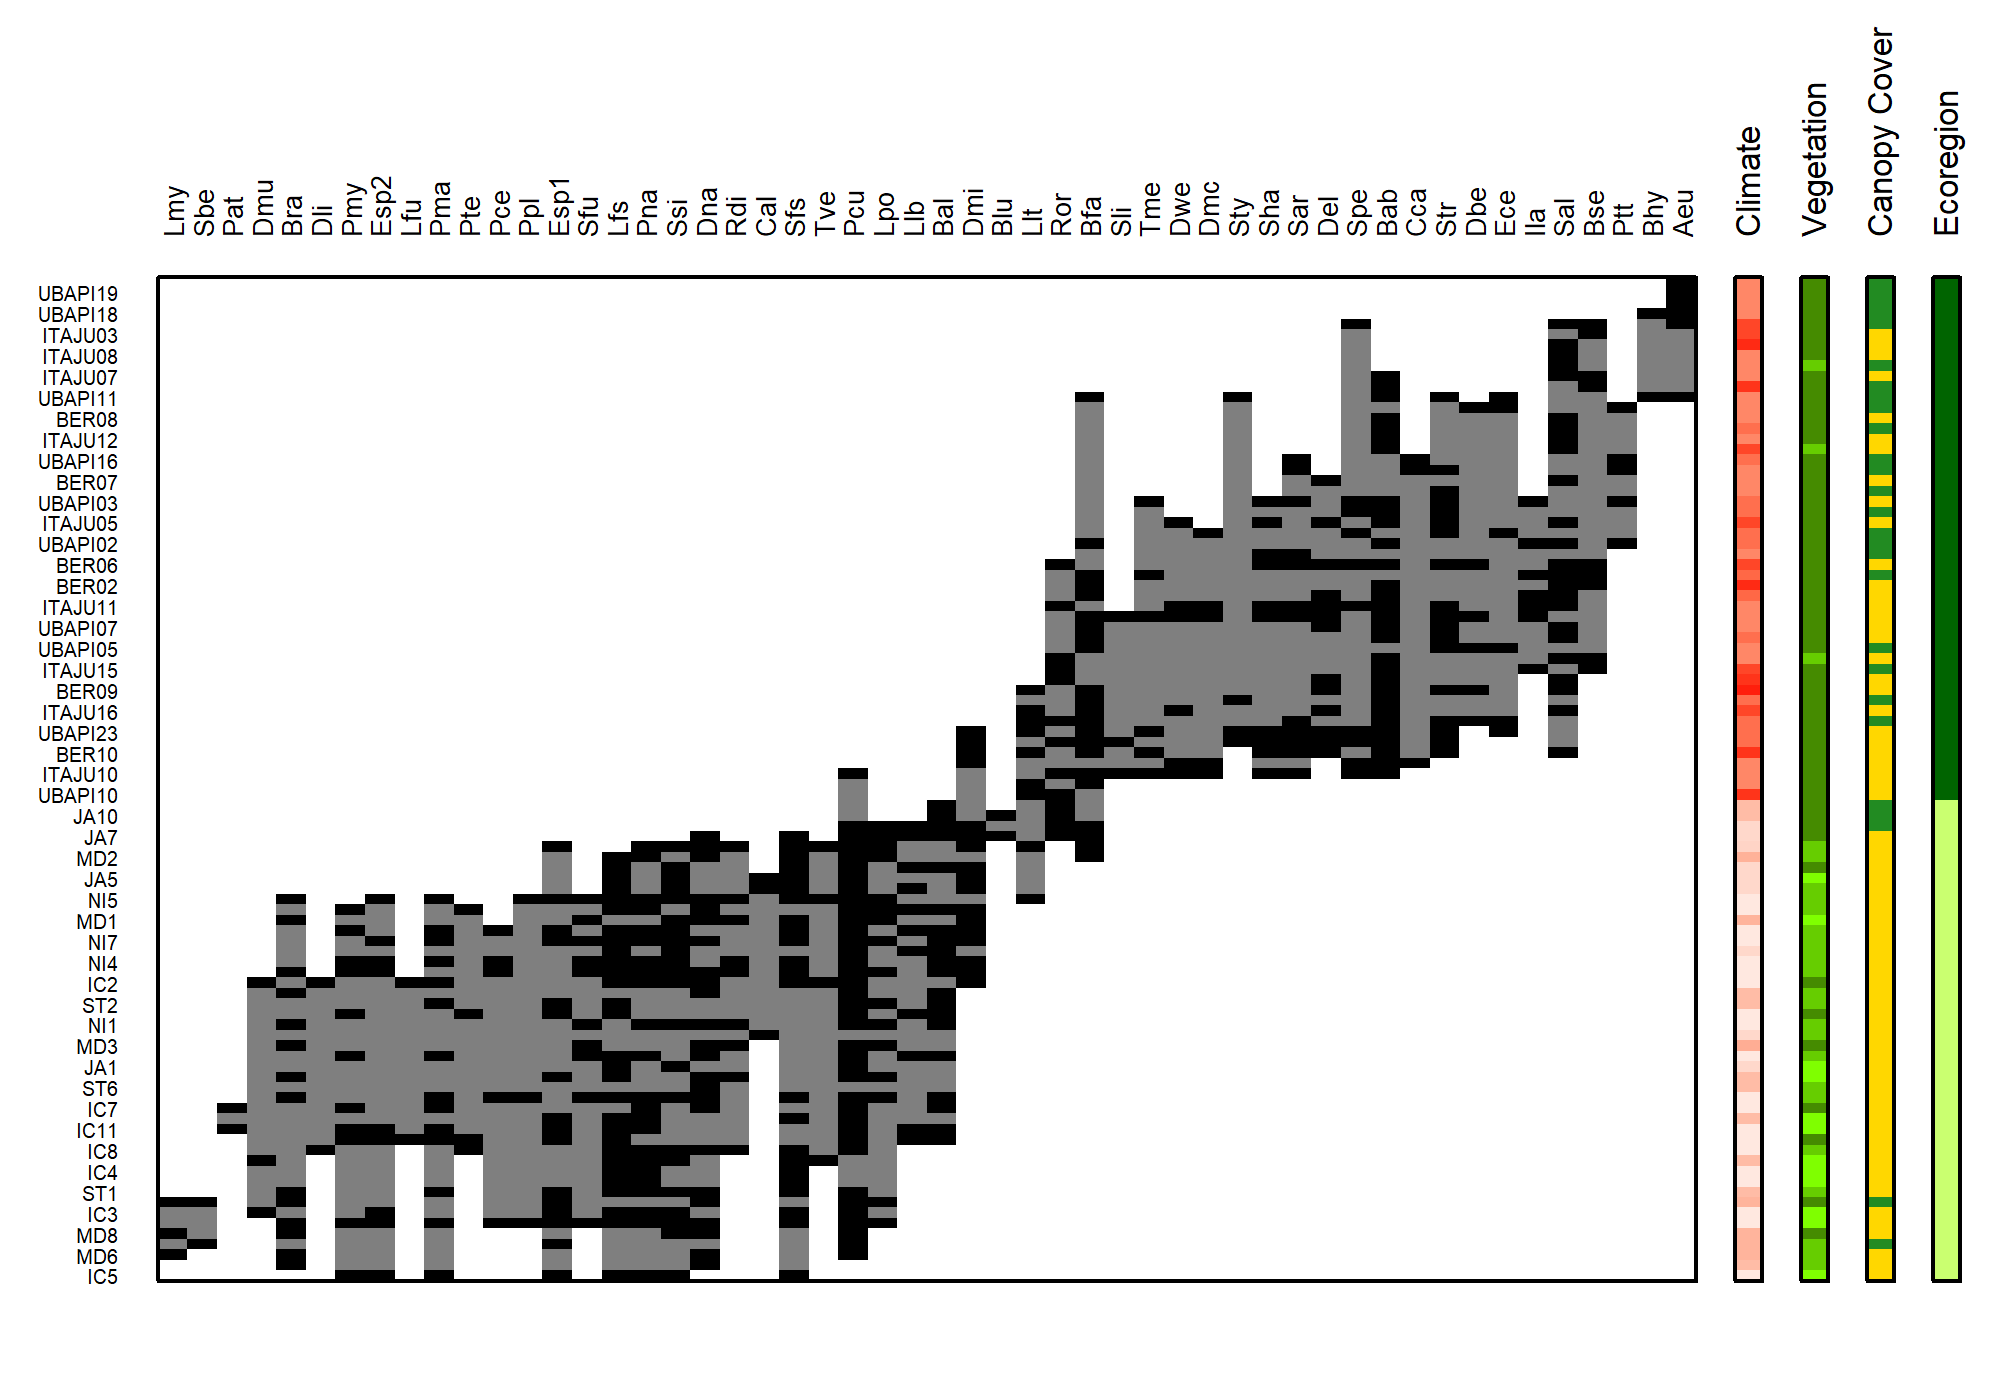
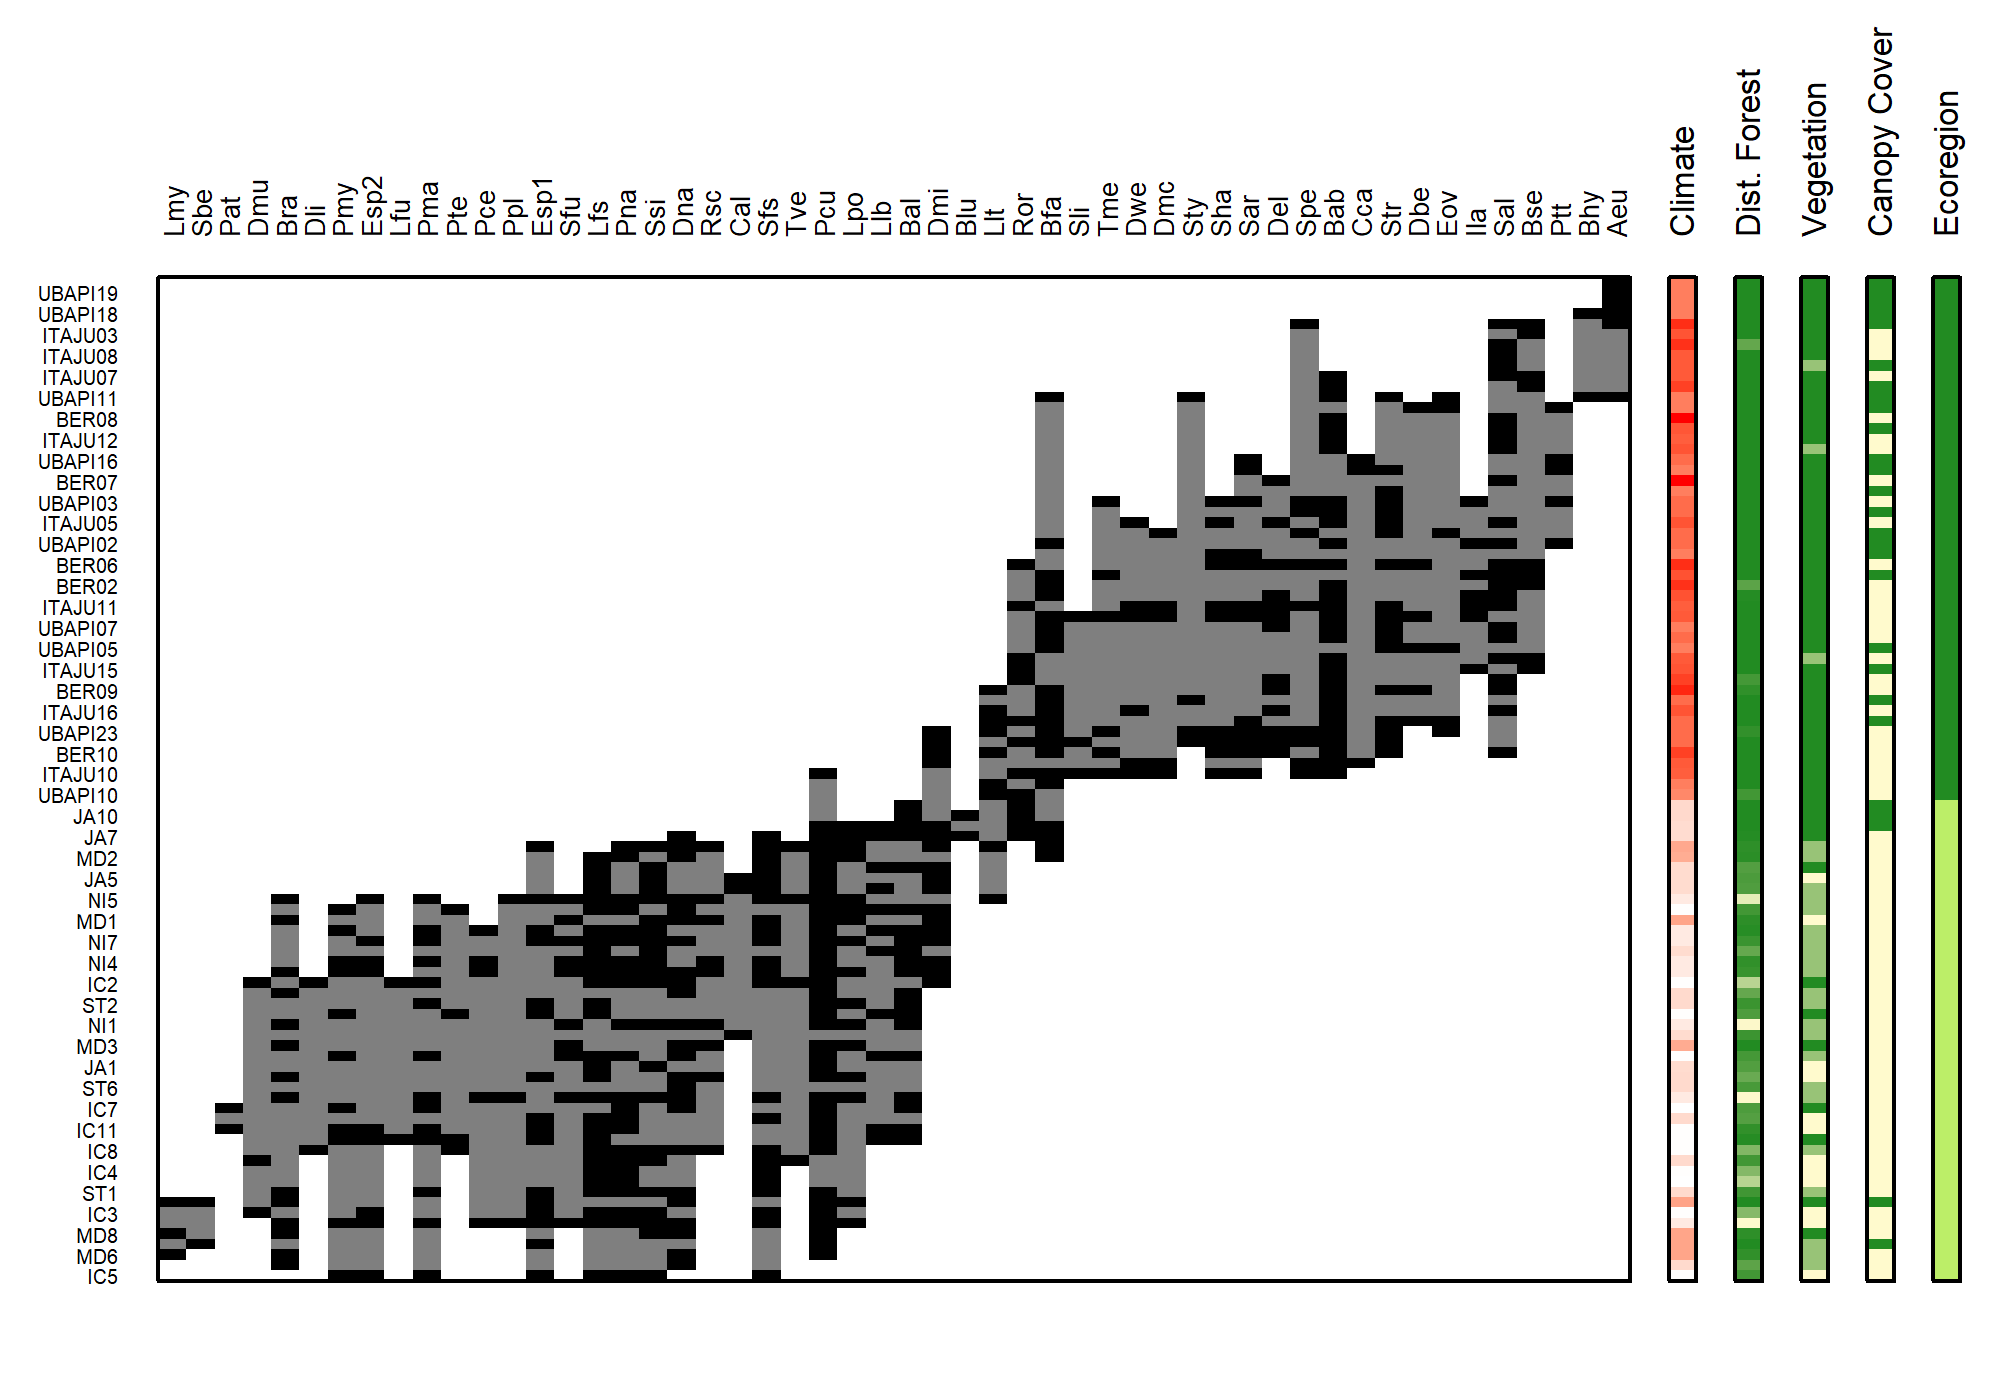
Updating the EMS markdown file.

Changed region(s): [[0.093, 0.0614, 0.992, 0.9214]]

diff --git a/EMS/EMS.md b/EMS/EMS.md
@@ -12,6 +12,9 @@ library(AtlanticForestMetacommunity)
 source("Loading_data.R")
 ```
 
+    ## Error in get(genname, envir = envir) : 
+    ##   objeto 'testthat_print' não encontrado
+
 The packages used to run this analyses are:
 
 `vegan` version 2.5-6  
@@ -158,9 +161,10 @@ My_Imagine(comm = Broad_pa, col = c("white", "black", "grey50"),
            order = T, scores = 1, fill = T, cex.site = 0.6, cex.species = 0.8,
            top_margin = 7, left_margin = 4,
            Env1 = PC1, Env.col_1 = c("white","red"), Env.label_1 = "Climate",
-           Env2 = as.factor(Broad_env$nvt), Env.col_2 = c("chartreuse1", "chartreuse3","chartreuse4"), Env.label_2 = "Vegetation",
-           Env3 = as.factor(Broad_env$canopy_cover), Env.col_3= c("gold","forestgreen"), Env.label_3 = "Canopy Cover",
-           Env4 = as.factor(Broad_env$ecoregion), Env.col_4= c("darkgreen","darkolivegreen1"), Env.label_4 = "Ecoregion")
+           Env2 = Broad_env_st$dist_to_forest, Env.col_2 = c("forestgreen","lemonchiffon"), Env.label_2 = "Dist. Forest",
+           Env3 = as.numeric(Broad_env$nvt), Env.col_3 = c("lemonchiffon","forestgreen"), Env.label_3 = "Vegetation",
+           Env4 = as.numeric(Broad_env$canopy_cover), Env.col_4= c("lemonchiffon","forestgreen"), Env.label_4 = "Canopy Cover",
+           Env5 = as.numeric(Broad_env$ecoregion), Env.col_5= c("forestgreen","darkolivegreen2"), Env.label_5 = "Ecoregion")
 ```
 
 <img src="EMS_files/figure-gfm/unnamed-chunk-6-1.png" width="1000" height="700" style="display: block; margin: auto;" />
@@ -241,8 +245,7 @@ round(ITA_spearman,3)
 
 ``` r
 My_Imagine(comm = ITA_pa, col = c("white", "black","gray50"),
-           order = T, scores = 1, fill = T, cex.site = 0.6, top_margin = 7, left_margin = 4,
-           Env1 = as.factor(ITA_env$hydroperiod), Env.col_1 = c("lightskyblue", "royalblue"), Env.label_1 = "Hydroperiod")
+           order = T, scores = 1, fill = T, cex.site = 0.6, top_margin = 7, left_margin = 4)
 ```
 
 <img src="EMS_files/figure-gfm/unnamed-chunk-13-1.png" width="600" height="500" style="display: block; margin: auto;" />
@@ -337,7 +340,7 @@ round(MD_spearman,3)
 ``` r
 My_Imagine(comm = MD_pa, col = c("white", "black","gray50"),
            order = T, scores = 1, fill = T, cex.site = 0.6, top_margin = 7, left_margin = 4,
-           Env1 = as.factor(MD_env$canopy_cover), Env.col_1 = c("gold","forestgreen"), Env.label_1 = "Canopy Cover")
+           Env1 = as.numeric(MD_env$canopy_cover), Env.col_1 = c("lemonchiffon","forestgreen"), Env.label_1 = "Canopy Cover")
 ```
 
 <img src="EMS_files/figure-gfm/unnamed-chunk-21-1.png" width="600" height="500" style="display: block; margin: auto;" />
@@ -360,10 +363,9 @@ round(JA_spearman,3)
 ``` r
 My_Imagine(comm = JA_pa, col = c("white", "black","gray50"),
            order = T, scores = 1, fill = T, cex.site = 0.6, top_margin = 7, left_margin = 4,
-           Env1 = as.factor(JA_env$hydroperiod), Env.col_1 = c("cyan2","blue3"), Env.label_1 = "Hydroperiod",
-           Env2 = as.factor(JA_env$nvt), Env.col_2 = c("chartreuse1", "chartreuse3","chartreuse4"), Env.label_2 = "Vegetation",
-           Env3 = as.factor(JA_env$canopy_cover), Env.col_3 = c("gold","forestgreen"), Env.label_3 = "Canopy Cover")
+           Env1 = as.numeric(JA_env$hydroperiod), Env.col_1 = c("lightskyblue", "royalblue"), Env.label_1 = "Hydroperiod",
+           Env2 = as.numeric(JA_env$nvt), Env.col_2 = c("lemonchiffon","forestgreen"), Env.label_2 = "Vegetation",
+           Env3 = as.numeric(JA_env$canopy_cover), Env.col_3 = c("lemonchiffon","forestgreen"), Env.label_3 = "Canopy Cover")
 ```
 
 <img src="EMS_files/figure-gfm/unnamed-chunk-23-1.png" width="600" height="500" style="display: block; margin: auto;" />
-   
